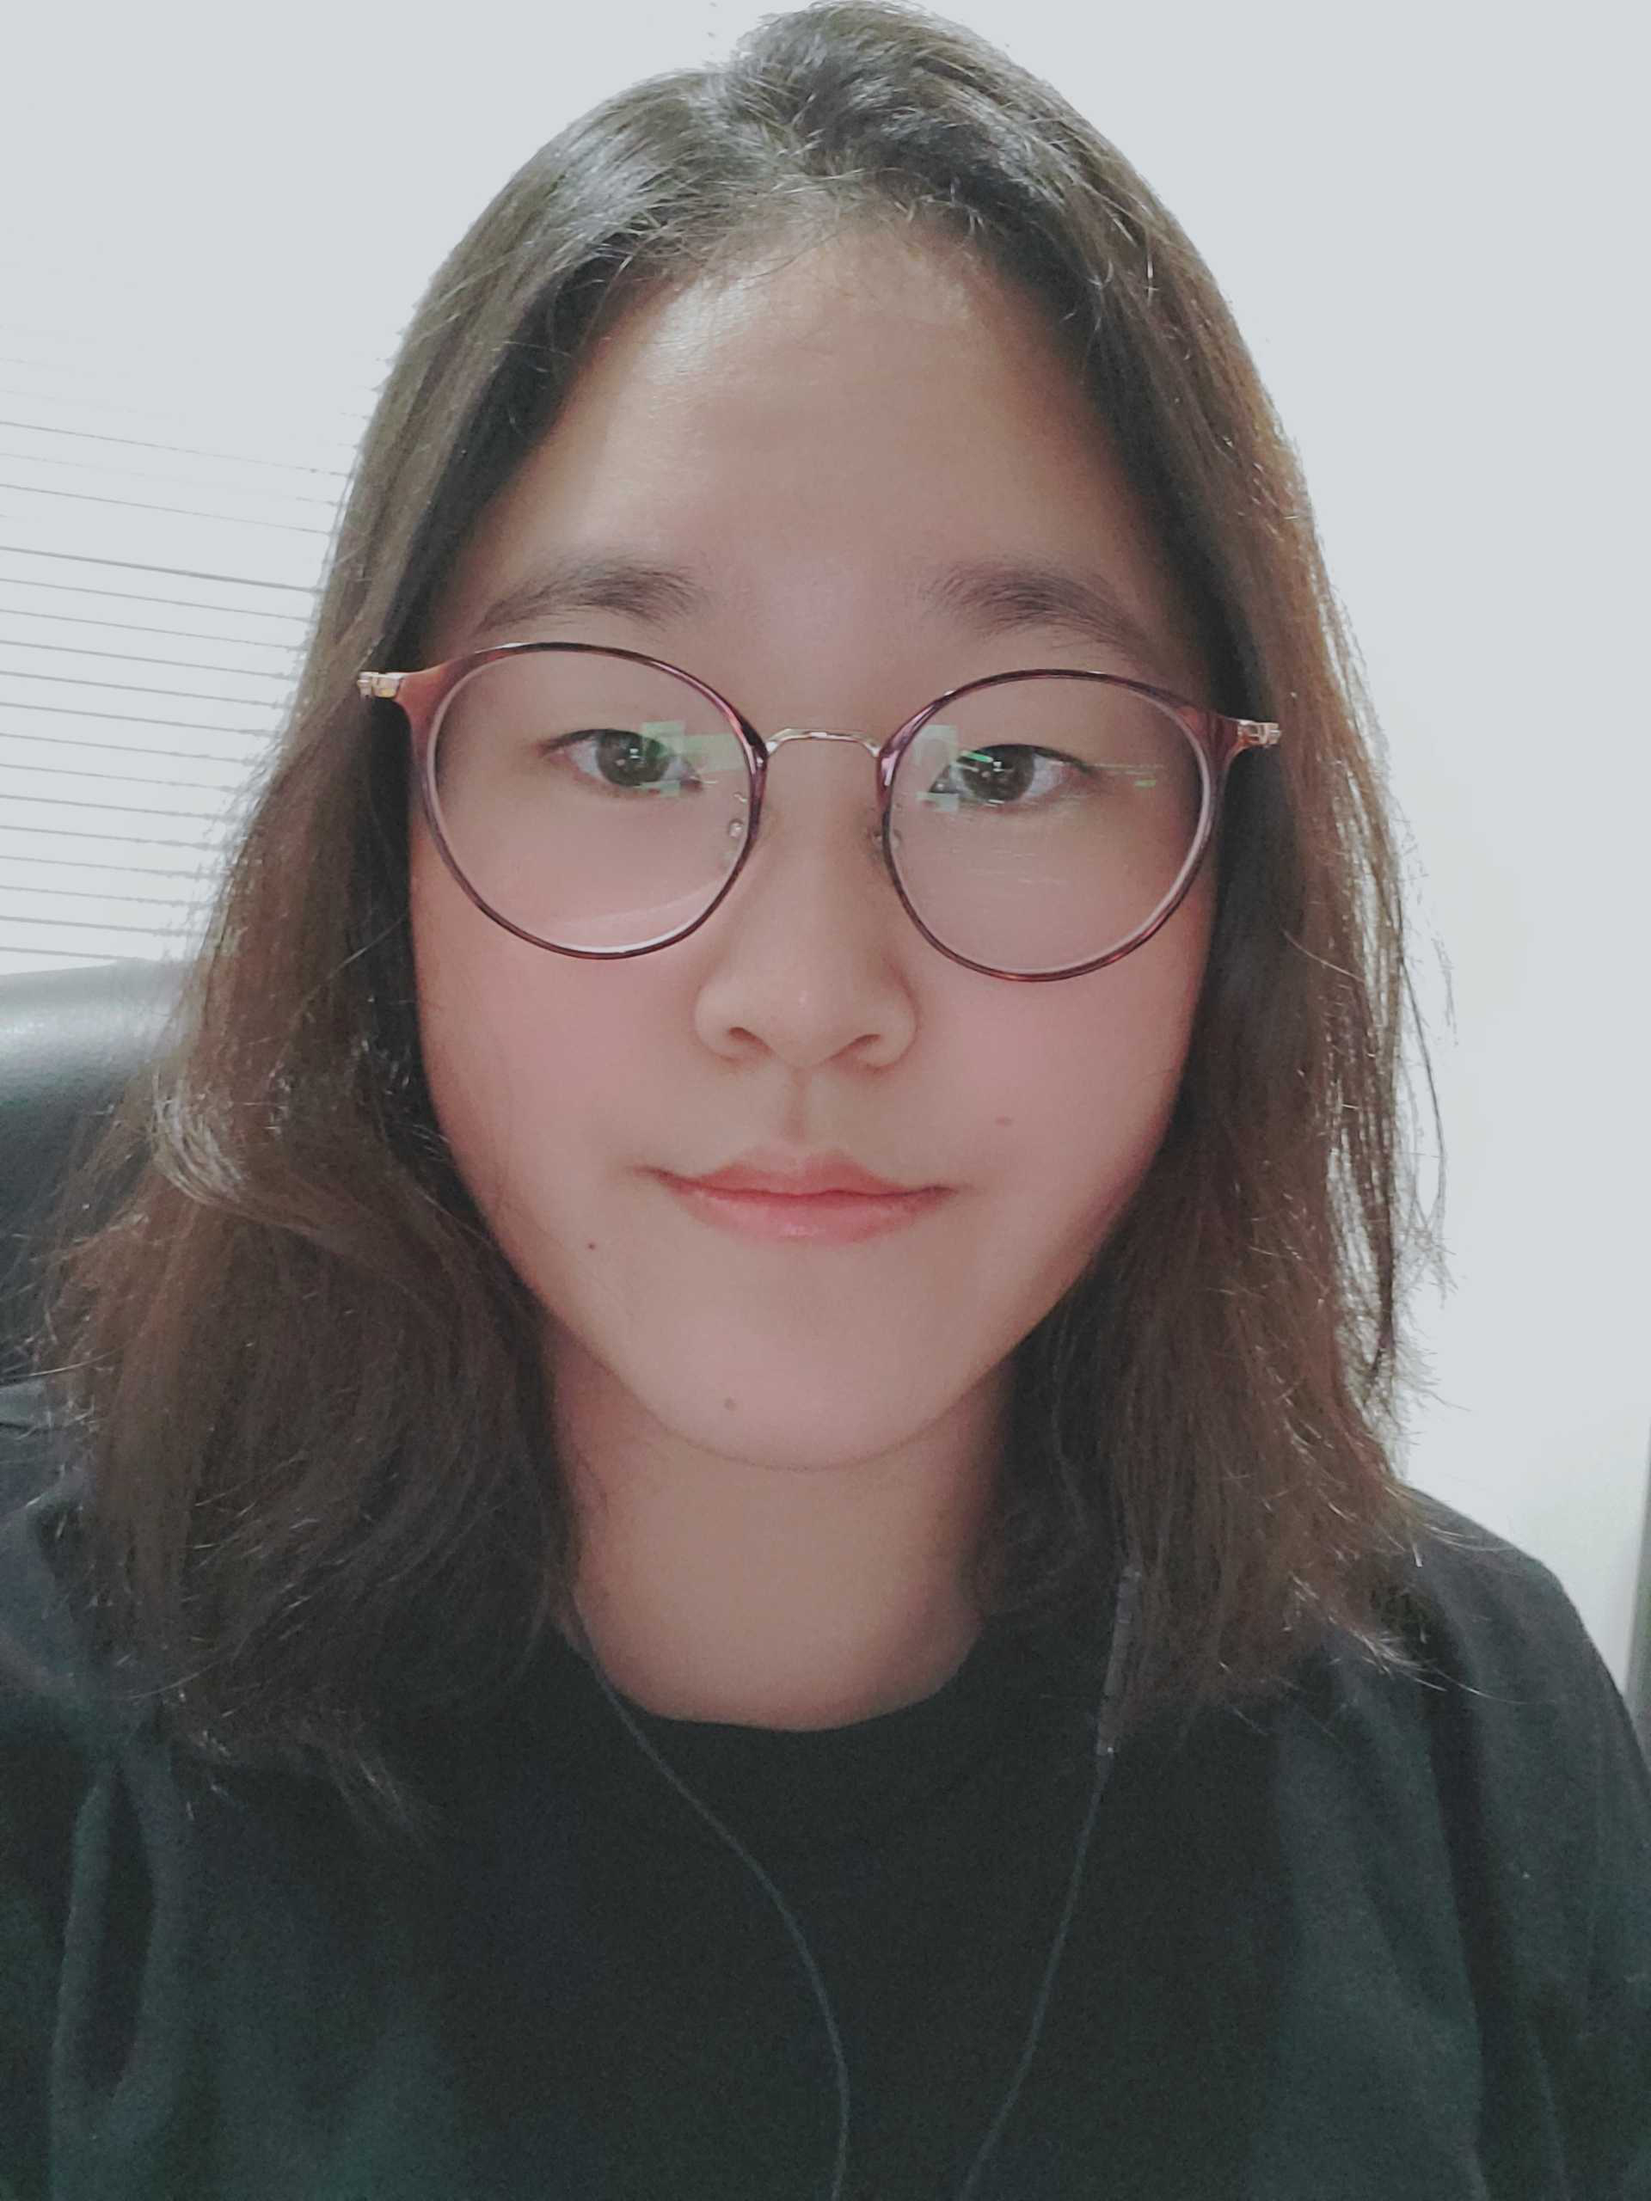
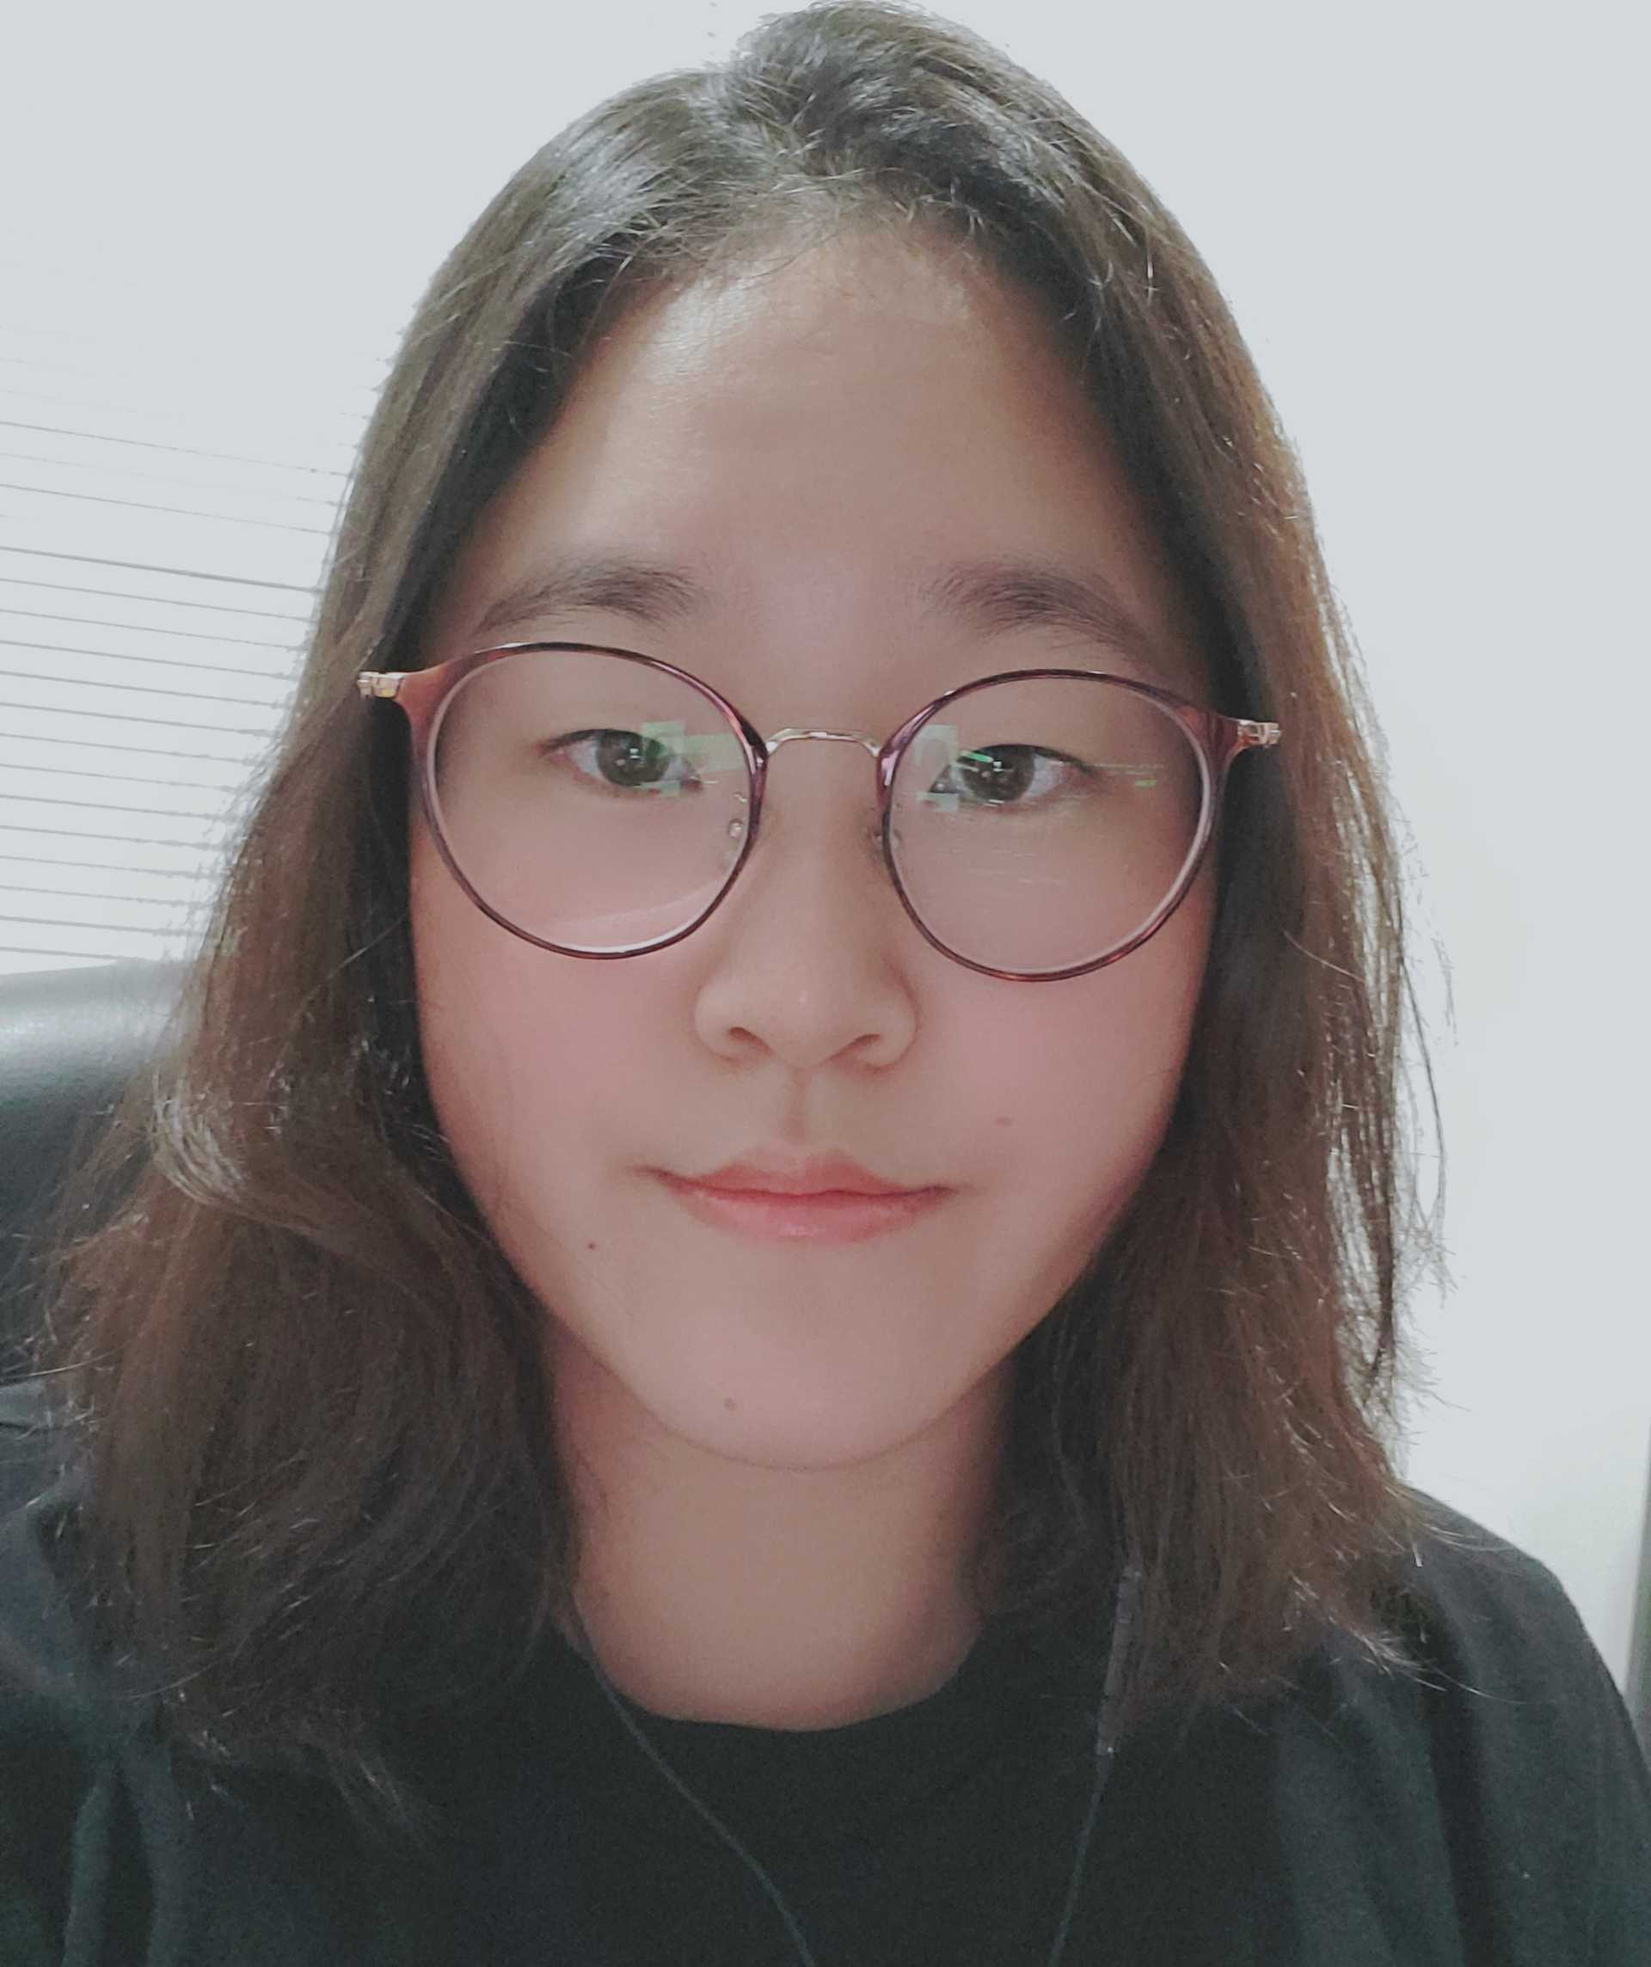
my pic size edit

diff --git a/main.css b/main.css
@@ -292,11 +292,6 @@ footer {
         padding: 7% 0 0 0;
     }
 
-    header img {
-        max-width: 60%;
-        max-height: 60%;
-    }
-
     h2 {
         font-size: 80px;
     }
@@ -331,8 +326,8 @@ footer {
     }
 
     header img {
-        max-width: 27%;
-        max-height: 20%;
+        max-width: 40%;
+        max-height: 40%;
     }
     
     section img {
@@ -361,7 +356,12 @@ footer {
     }
 
     header {
-        padding: 3% 0 0 0;
+        padding: 2.5% 0 0 0;
+    }
+
+    header img {
+        max-width: 30%;
+        max-height: 26%;
     }
 
     #contact li {
